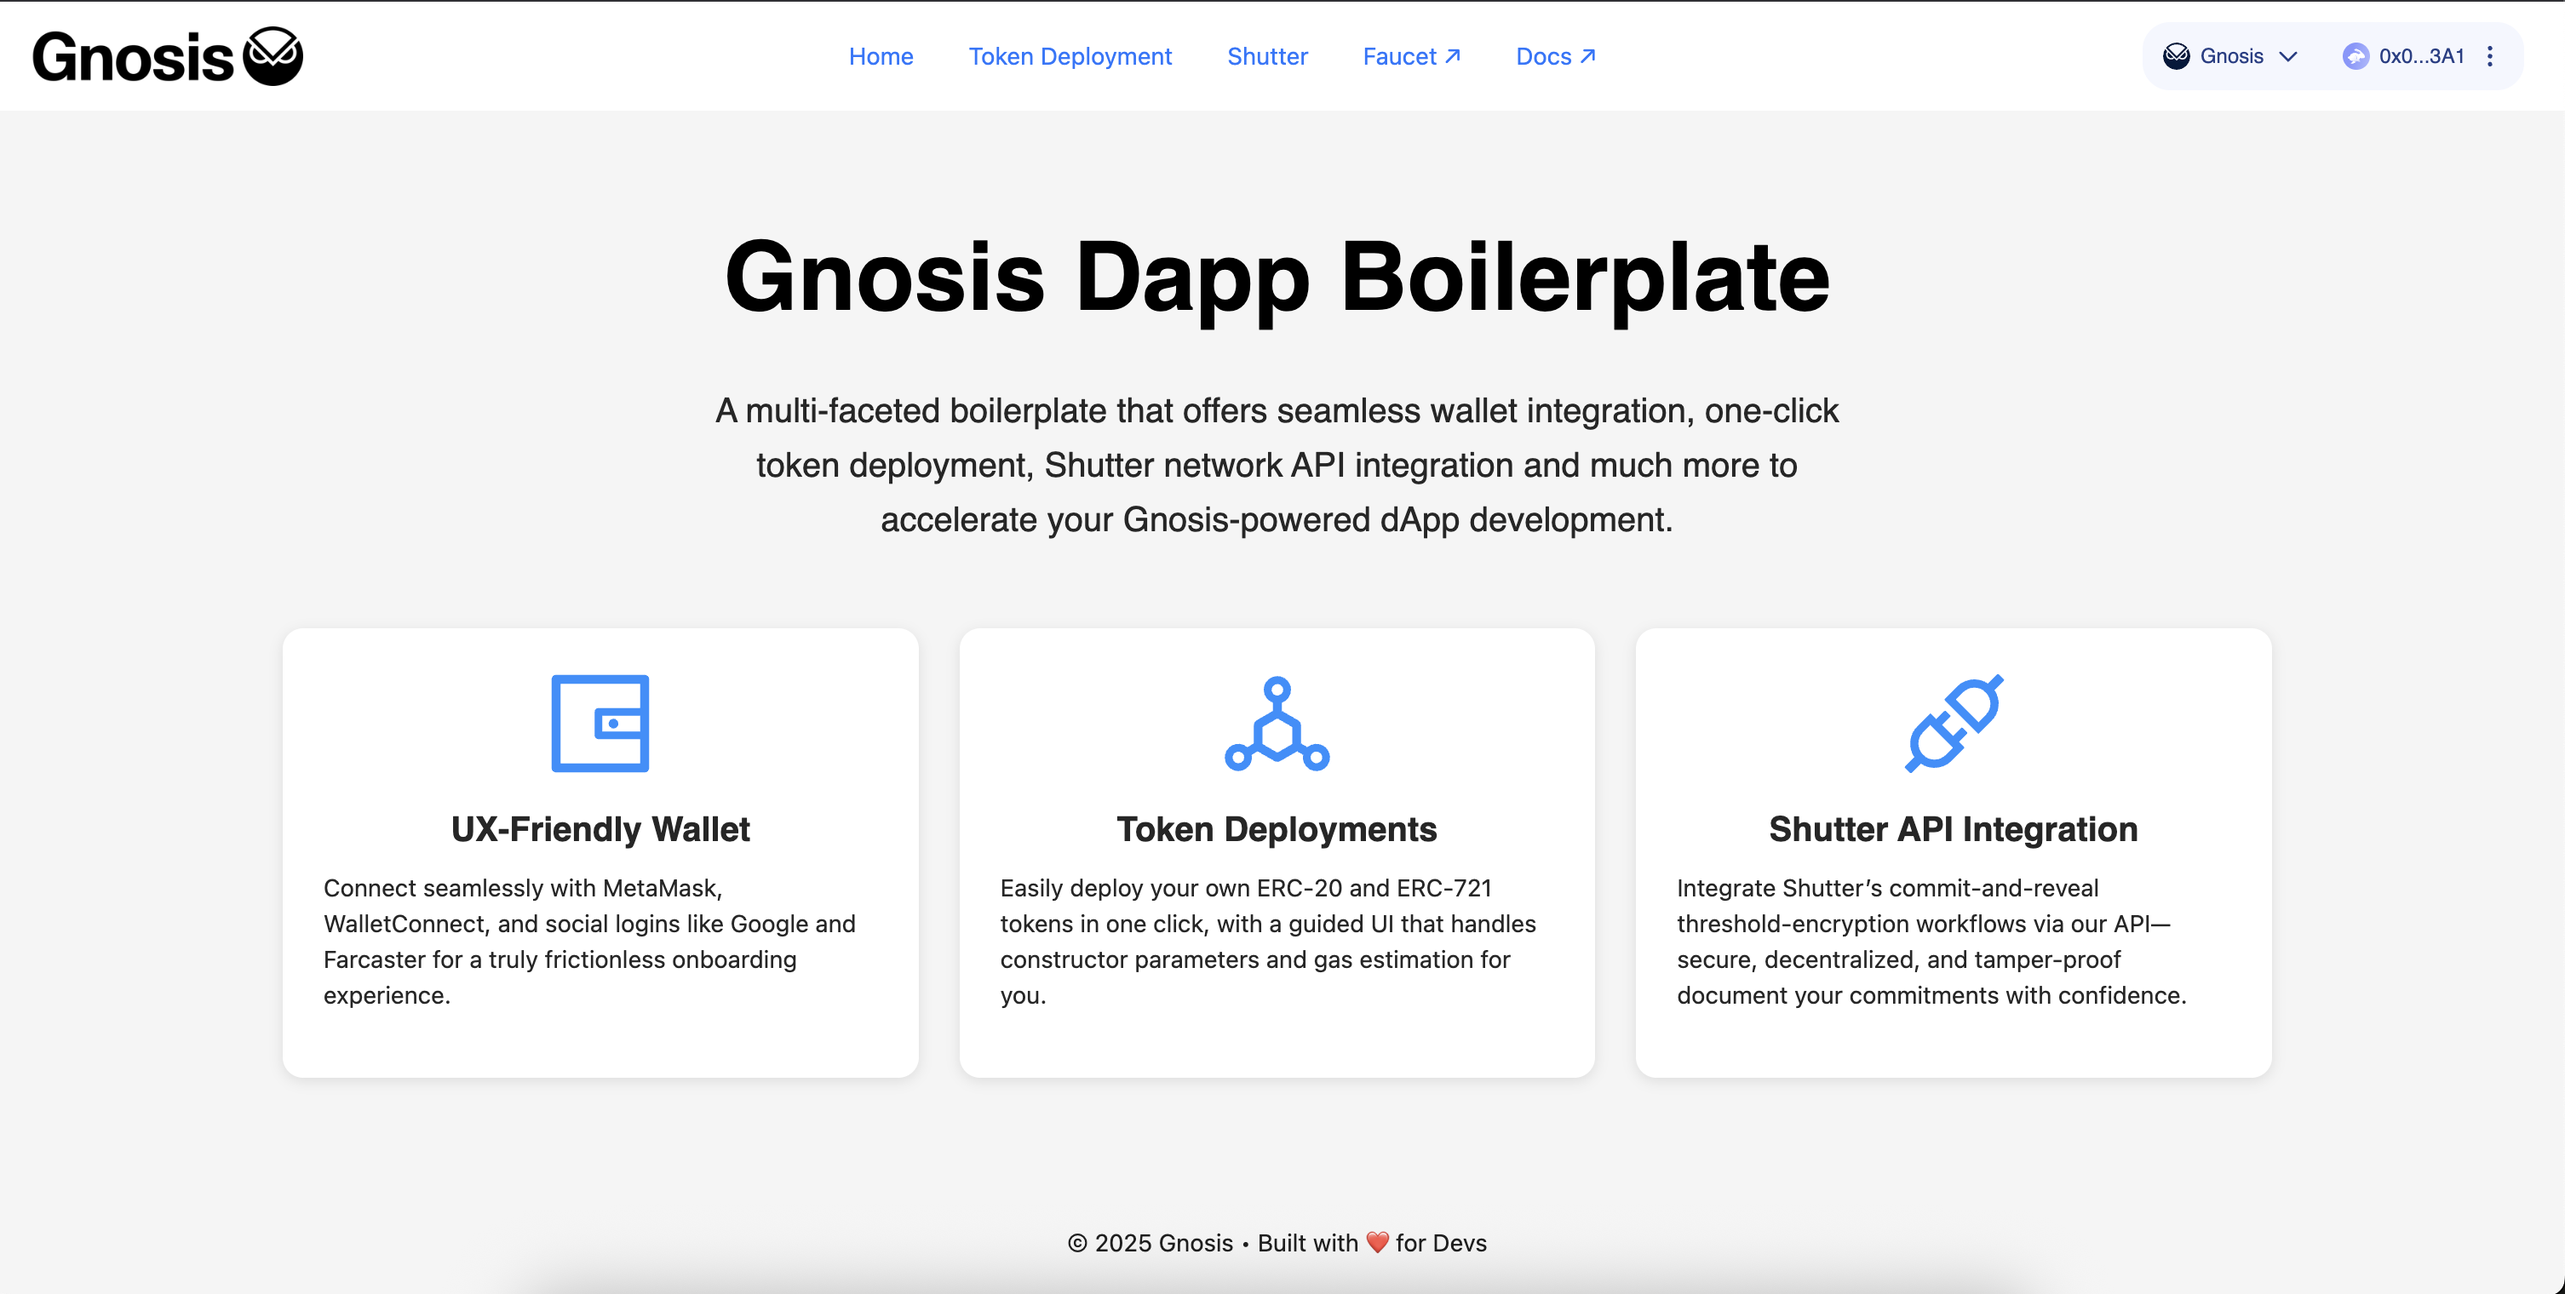
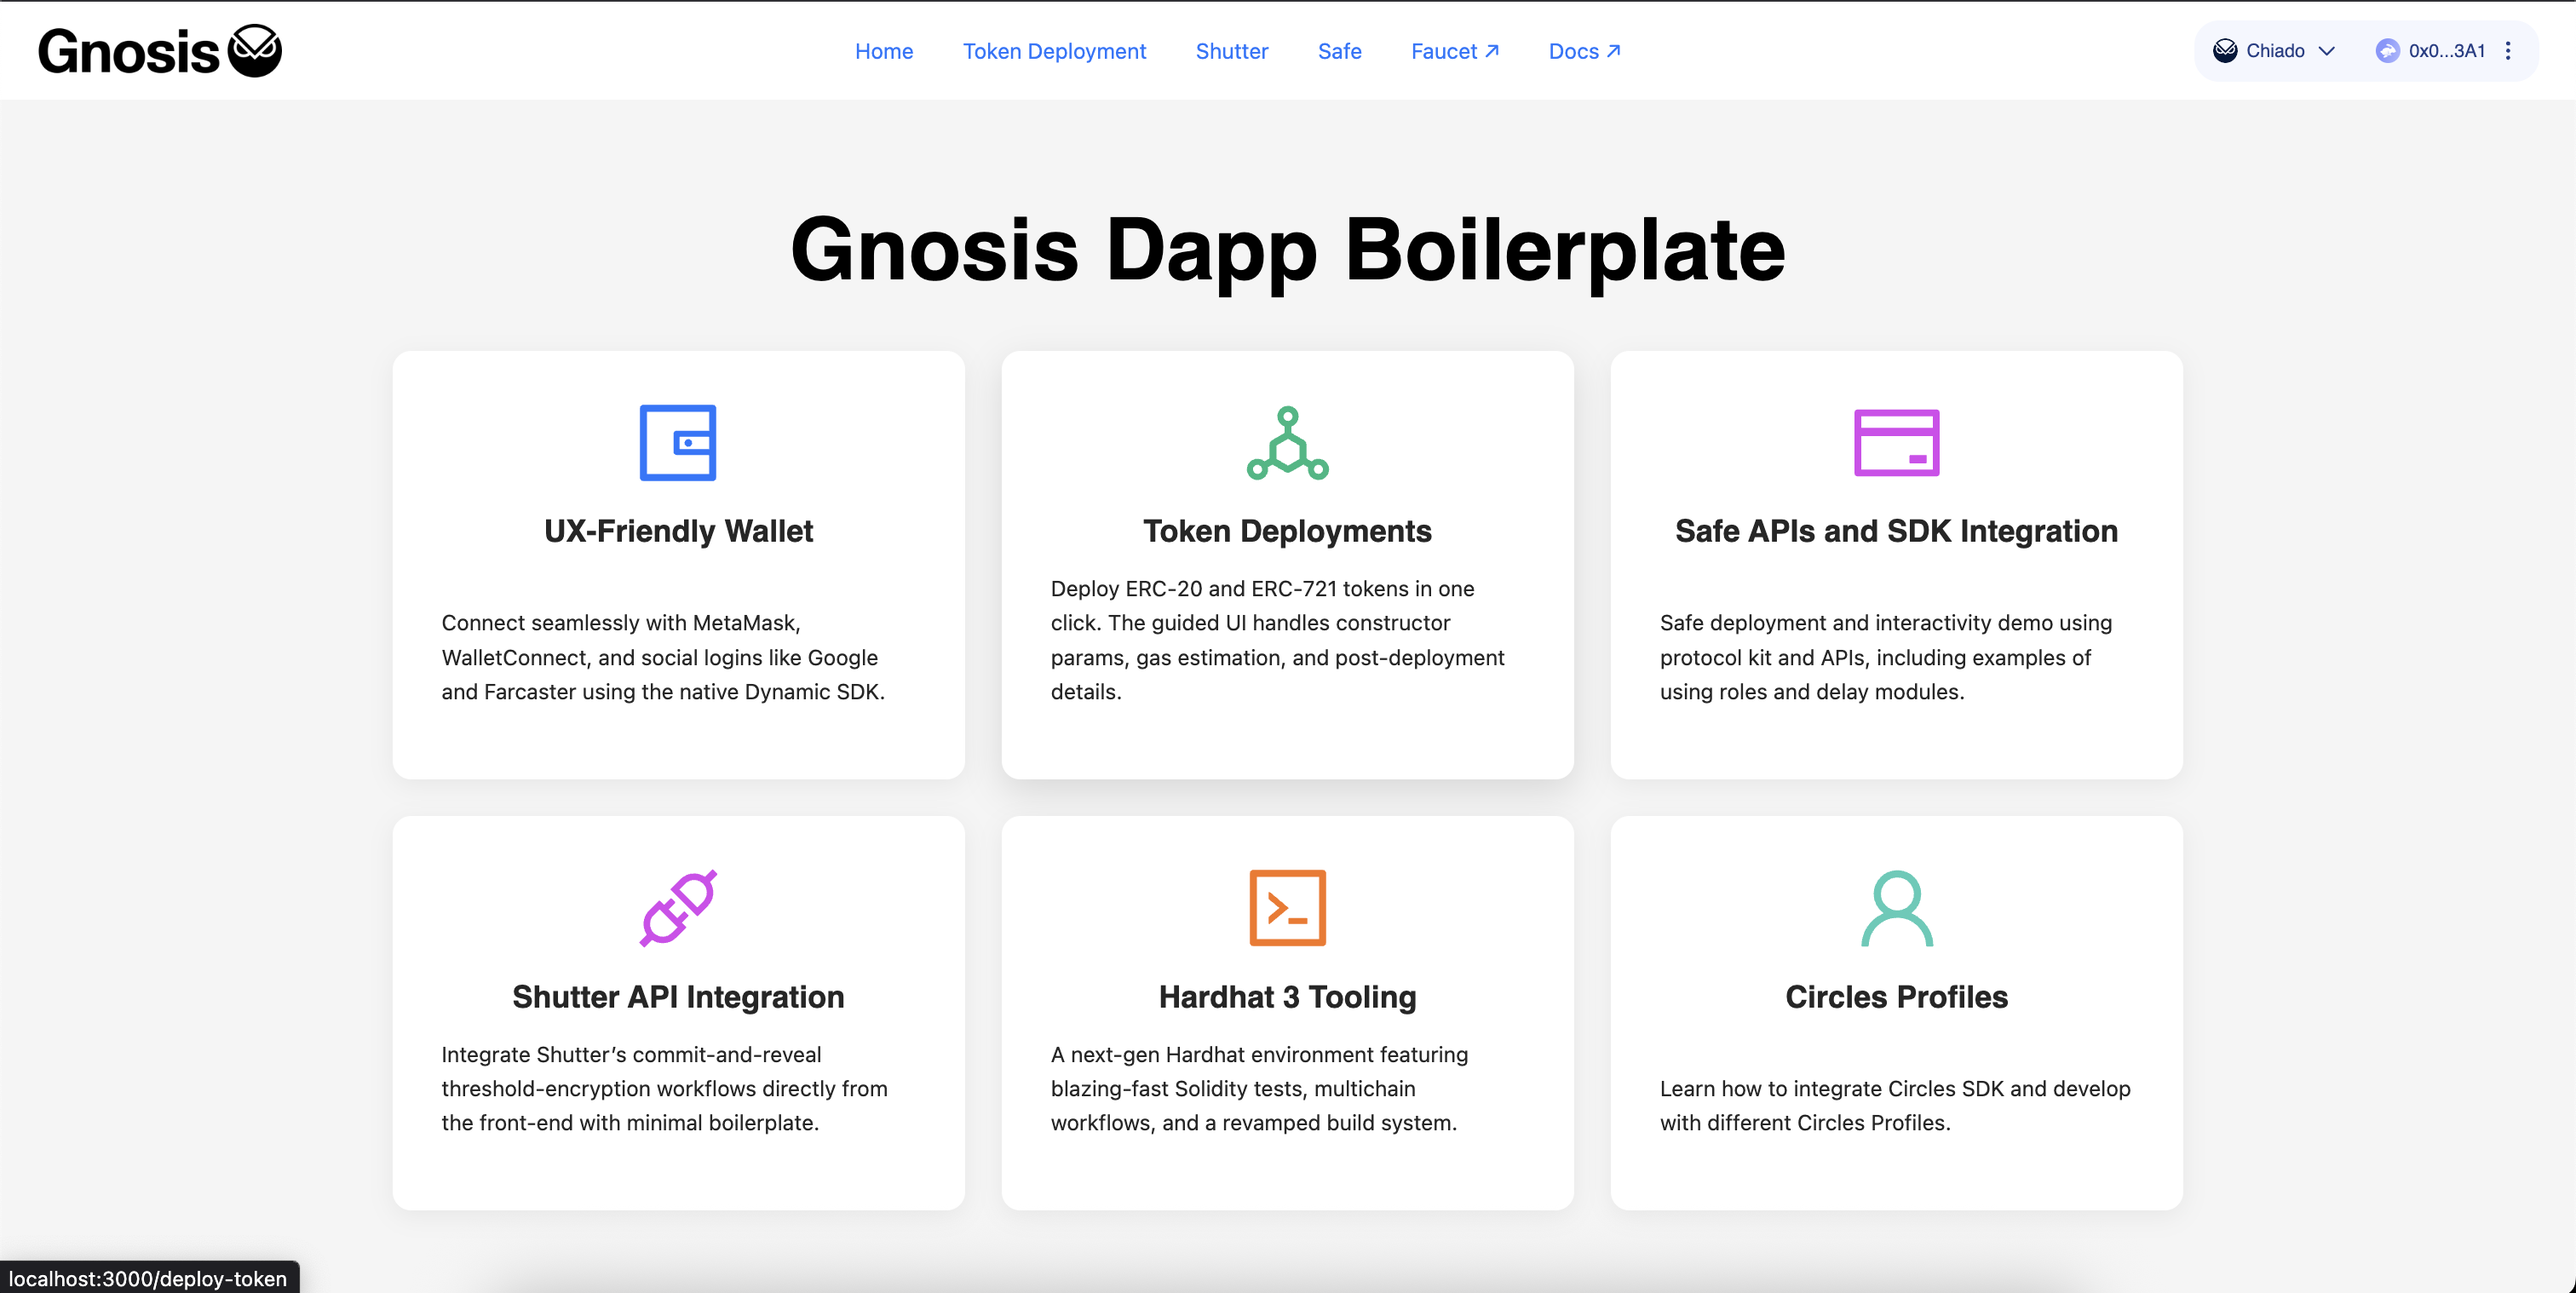
update readme

diff --git a/app/page.tsx b/app/page.tsx
@@ -1,6 +1,7 @@
 'use client';
 
 import React from 'react';
+import Link from 'next/link';
 import { Row, Col, Card, Typography } from 'antd';
 import {
   WalletOutlined,
@@ -8,6 +9,7 @@ import {
   ApiOutlined,
   CodeOutlined,
   CreditCardOutlined,
+  UserOutlined,
 } from '@ant-design/icons';
 
 const { Title, Paragraph } = Typography;
@@ -31,6 +33,7 @@ export default function HomePage() {
   const features = [
     {
       title: 'UX-Friendly Wallet',
+      href: '/',
       icon: (
         <WalletOutlined
           style={{ fontSize: '3.5rem', color: '#1677ff' /* blue-6 */ }}
@@ -41,44 +44,44 @@ export default function HomePage() {
     },
     {
       title: 'Token Deployments',
+      href: '/deploy-token',
       icon: (
         <DeploymentUnitOutlined
-          style={{ fontSize: '3.5rem', color: '#10b981' /* green-5 */ }}
+          style={{ fontSize: '3.5rem', color: '#10b981' }}
         />
       ),
       description:
         'Deploy ERC-20 and ERC-721 tokens in one click. The guided UI handles constructor params, gas estimation, and post-deployment details.',
     },
     {
-      title: 'Safe APIs and SDK Inetgration',
+      title: 'Safe APIs and SDK Integration',
+      href: '/safe',
       icon: (
-        <CreditCardOutlined
-          style={{ fontSize: '3.5rem', color: '#d946ef' /* purple-5 */ }}
-        />
+        <CreditCardOutlined style={{ fontSize: '3.5rem', color: '#d946ef' }} />
       ),
       description:
-        'Safe deployment and interactivity demo using protocol kit and apis and examples of using roles and delay modules',
+        'Safe deployment and interactivity demo using protocol kit and APIs, including examples of using roles and delay modules.',
     },
-    
     {
       title: 'Shutter API Integration',
-      icon: (
-        <ApiOutlined
-          style={{ fontSize: '3.5rem', color: '#d946ef' /* purple-5 */ }}
-        />
-      ),
+      href: '/shutter-rps',
+      icon: <ApiOutlined style={{ fontSize: '3.5rem', color: '#d946ef' }} />,
       description:
         'Integrate Shutter’s commit-and-reveal threshold-encryption workflows directly from the front-end with minimal boilerplate.',
     },
     {
       title: 'Hardhat 3 Tooling',
-      icon: (
-        <CodeOutlined
-          style={{ fontSize: '3.5rem', color: '#f97316' /* orange-5 */ }}
-        />
-      ),
+      href: '/',
+      icon: <CodeOutlined style={{ fontSize: '3.5rem', color: '#f97316' }} />,
       description:
         'A next-gen Hardhat environment featuring blazing-fast Solidity tests, multichain workflows, and a revamped build system.',
+    },
+    {
+      title: 'Circles Profiles',
+      href: '/circles',
+      icon: <UserOutlined style={{ fontSize: '3.5rem', color: '#47ccb8' }} />,
+      description:
+        'Learn how to integrate Circles SDK and develop with different Circles Profiles.',
     },
   ];
 
@@ -91,7 +94,7 @@ export default function HomePage() {
         fontFamily: bodyFont,
       }}
     >
-      <section style={{ textAlign: 'center', marginBottom: '3rem' }}>
+      <section style={{ textAlign: 'center', marginBottom: '2rem' }}>
         <Title
           level={1}
           style={{
@@ -99,75 +102,54 @@ export default function HomePage() {
             color: '#000',
             fontSize: 'clamp(2.5rem, 5vw, 3.5rem)',
             fontWeight: 800,
-            marginBottom: '1rem',
+            marginBottom: '0rem',
           }}
         >
           Gnosis Dapp Boilerplate
         </Title>
-
-        <Paragraph
-          style={{
-            fontSize: 'clamp(1rem, 2vw, 1.25rem)',
-            color: textColor,
-            maxWidth: 700,
-            margin: '0 auto',
-            lineHeight: 1.6,
-          }}
-        >
-          Accelerate Gnosis-powered dApp development with seamless wallet
-          onboarding, one-click token deployment, Shutter integration, and more.
-        </Paragraph>
       </section>
 
       <section>
         <Row gutter={[24, 24]} align="stretch">
           {features.map((feat) => (
-            <Col
-              key={feat.title}
-              xs={24}
-              sm={12}
-              lg={8}
-              style={{ display: 'flex' }} 
-            >
-              <Card
-                hoverable
-                style={cardStyle}
-                bodyStyle={{ padding: '2rem', flex: 1 }}
-                onMouseEnter={(e) =>
-                  ((e.currentTarget.style.boxShadow =
-                    '0 8px 24px rgba(0,0,0,0.12)'))
-                }
-                onMouseLeave={(e) =>
-                  ((e.currentTarget.style.boxShadow =
-                    '0 4px 16px rgba(0,0,0,0.06)'))
-                }
-              >
-                <div style={{ textAlign: 'center', marginBottom: '1rem' }}>
-                  {feat.icon}
-                </div>
-
-                <Title
-                  level={4}
-                  style={{
-                    fontFamily: headingFont,
-                    color: textColor,
-                    textAlign: 'center',
-                    marginBottom: '0.75rem',
-                  }}
+            <Col key={feat.title} xs={24} sm={12} lg={8} style={{ display: 'flex' }}>
+              <Link href={feat.href} style={{ flex: 1, display: 'flex' }}>
+                <Card
+                  hoverable
+                  style={cardStyle}
+                  bodyStyle={{ padding: '2rem', flex: 1, display: 'flex', flexDirection: 'column' }}
+                  onMouseEnter={(e) =>
+                    (e.currentTarget.style.boxShadow = '0 8px 24px rgba(0,0,0,0.12)')
+                  }
+                  onMouseLeave={(e) =>
+                    (e.currentTarget.style.boxShadow = '0 4px 16px rgba(0,0,0,0.06)')
+                  }
                 >
-                  {feat.title}
-                </Title>
+                  <div style={{ textAlign: 'center', marginBottom: '1rem' }}>{feat.icon}</div>
 
-                <Paragraph
-                  style={{
-                    color: textColor,
-                    lineHeight: 1.6,
-                    marginTop: 'auto', 
-                  }}
-                >
-                  {feat.description}
-                </Paragraph>
-              </Card>
+                  <Title
+                    level={4}
+                    style={{
+                      fontFamily: headingFont,
+                      color: textColor,
+                      textAlign: 'center',
+                      marginBottom: '0.75rem',
+                    }}
+                  >
+                    {feat.title}
+                  </Title>
+
+                  <Paragraph
+                    style={{
+                      color: textColor,
+                      lineHeight: 1.6,
+                      marginTop: 'auto',
+                    }}
+                  >
+                    {feat.description}
+                  </Paragraph>
+                </Card>
+              </Link>
             </Col>
           ))}
         </Row>

diff --git a/lib/providers.tsx b/lib/providers.tsx
@@ -29,7 +29,7 @@ export default function Providers({
 }: {
   children: React.ReactNode;
 }) {
-  // ensure our API key is defined as a string
+  // ensure API key is defined as a string
   const dynamicApiKey = process.env.NEXT_PUBLIC_DYNAMIC_API_KEY;
   if (!dynamicApiKey) {
     throw new Error('Missing NEXT_PUBLIC_DYNAMIC_API_KEY environment variable');
